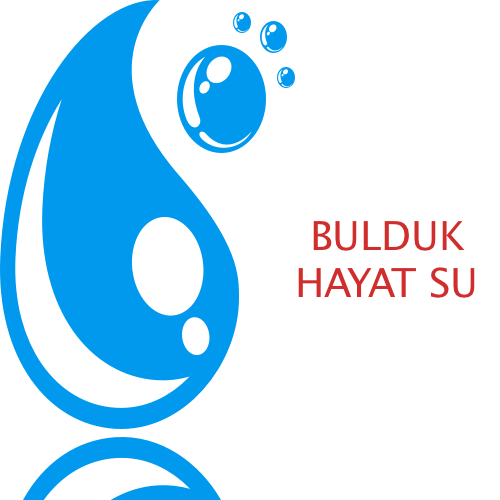
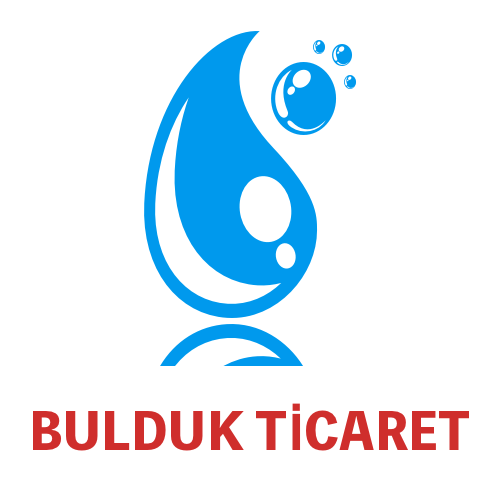
config

diff --git a/src/screens/AuthScreens/Login/index.tsx b/src/screens/AuthScreens/Login/index.tsx
@@ -95,7 +95,7 @@ class Login extends Component<Props, {}> {
                     <View style={[styles.headStyle,{marginTop:Dimensions.get('window').height / 10}]}>
                       {/* <Image source={BaseImage} style={{width:100,height:100,marginBottom:10}} /> */}
                       <Text style={[styles.headText]}>
-                      Bulduk Hayat Su
+                      Bulduk Ticaret
                       </Text>
                     </View>
                     <View style={[styles.inputContainer,{paddingBottom:0}]}>

diff --git a/src/screens/AppScreens/Home/index.tsx b/src/screens/AppScreens/Home/index.tsx
@@ -106,7 +106,7 @@ class CustomerHomeScreen extends Component<Props, State> {
   static navigationOptions = ({ navigation }) => {
 
     return {
-      title: 'Bulduk Hayat Su',
+      title: 'Bulduk Ticaret',
 
       headerStyle: {
         backgroundColor: colors.headerColorTop,
